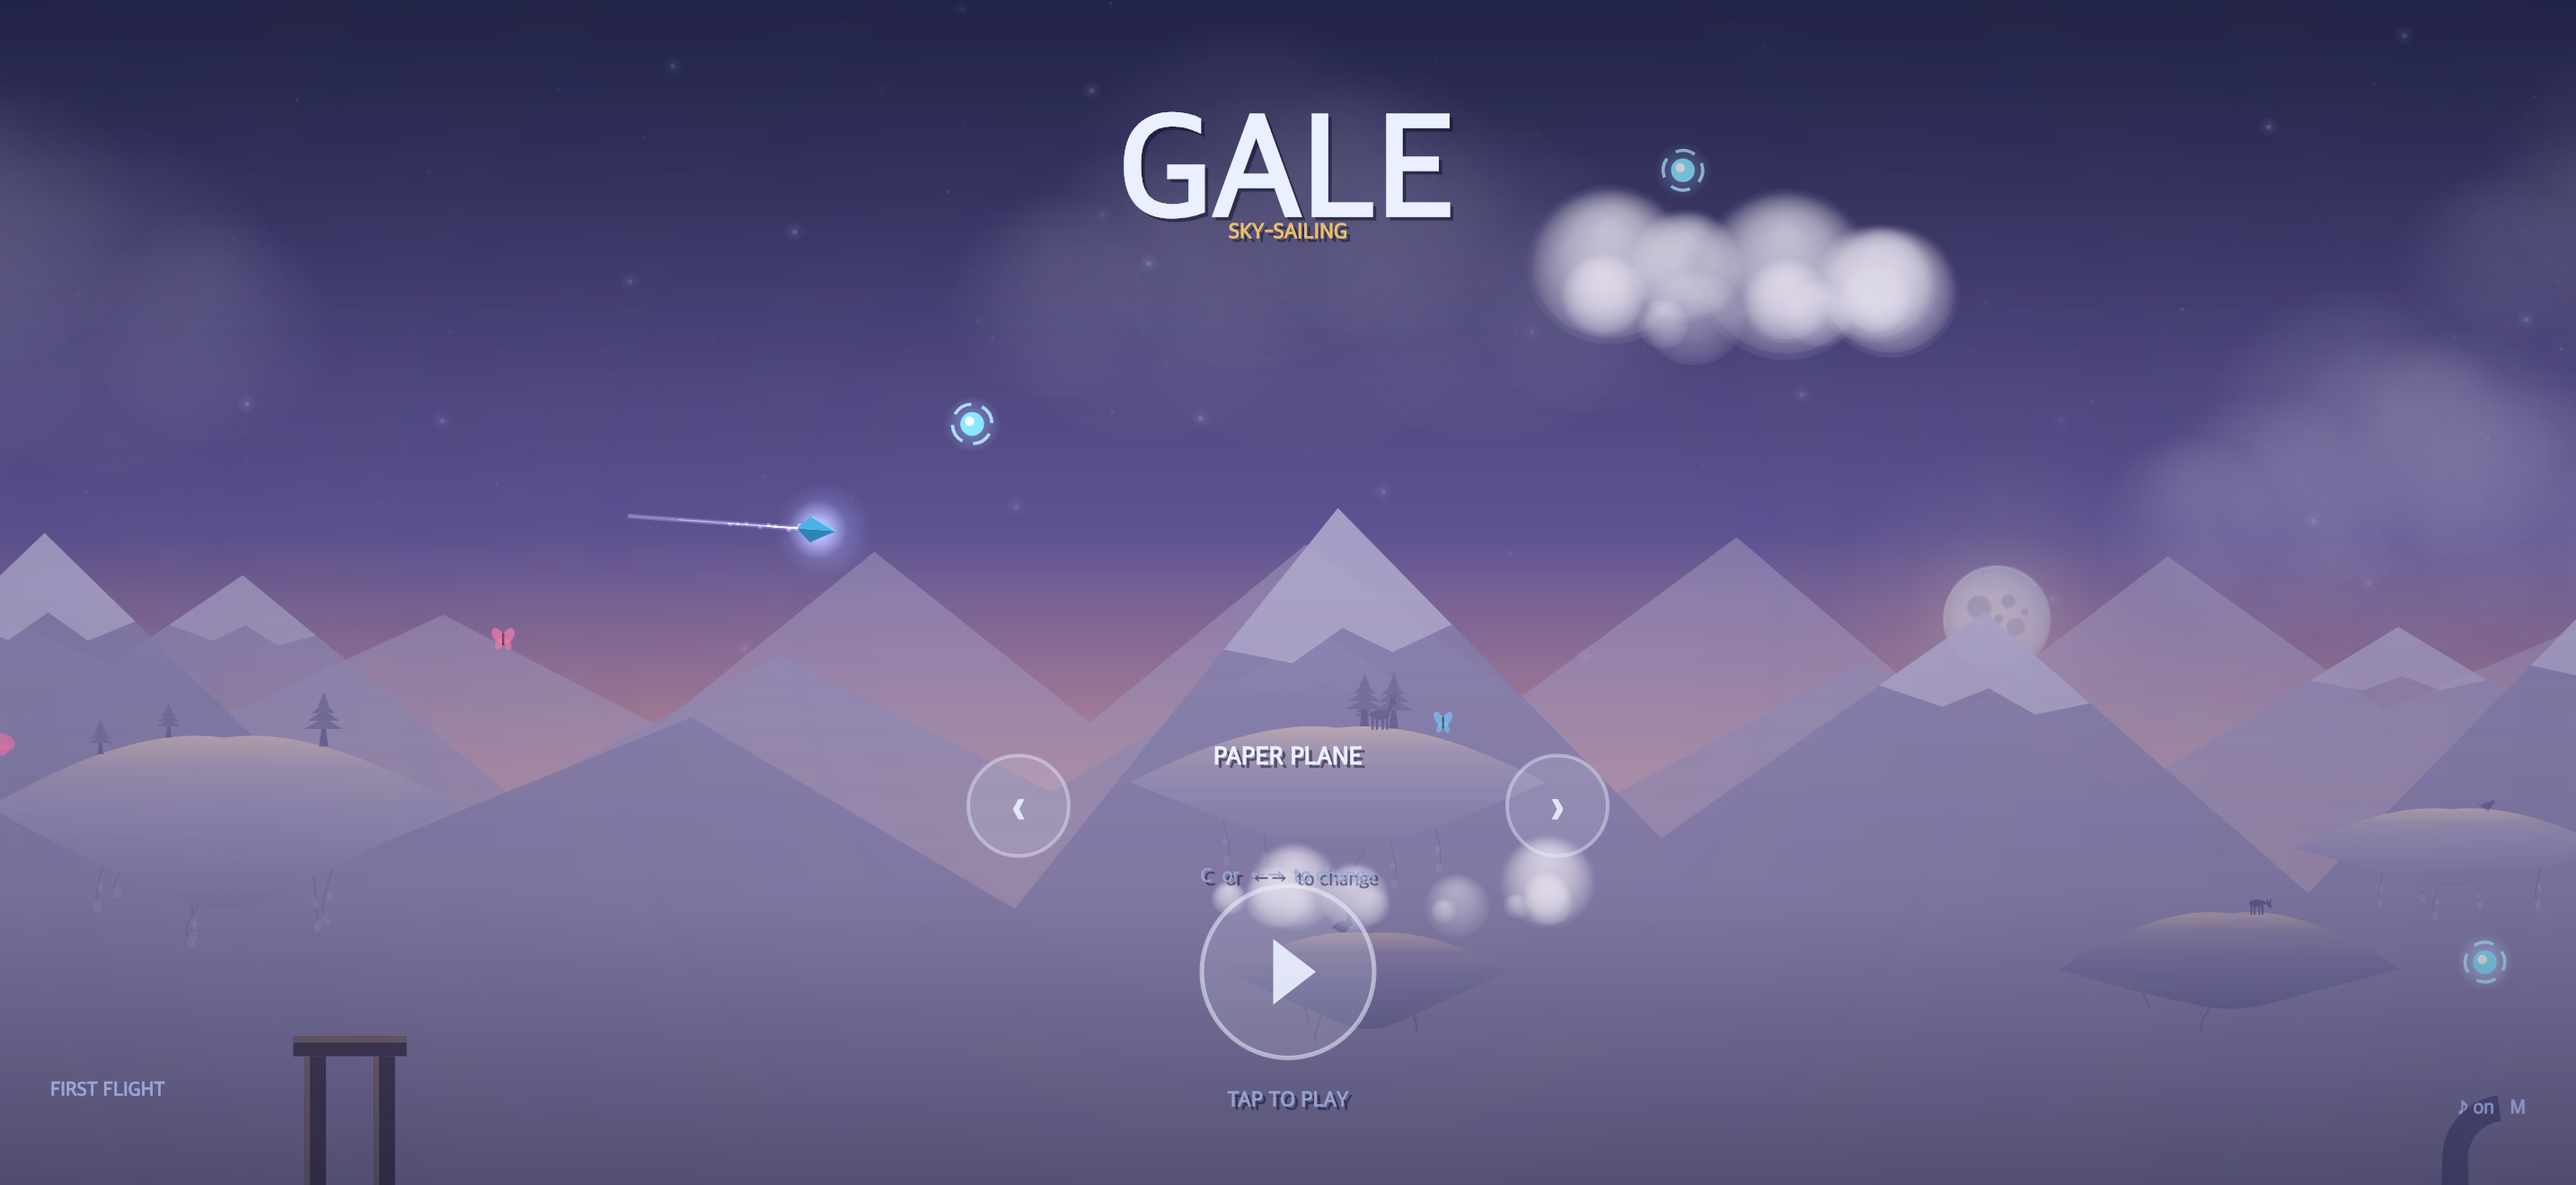
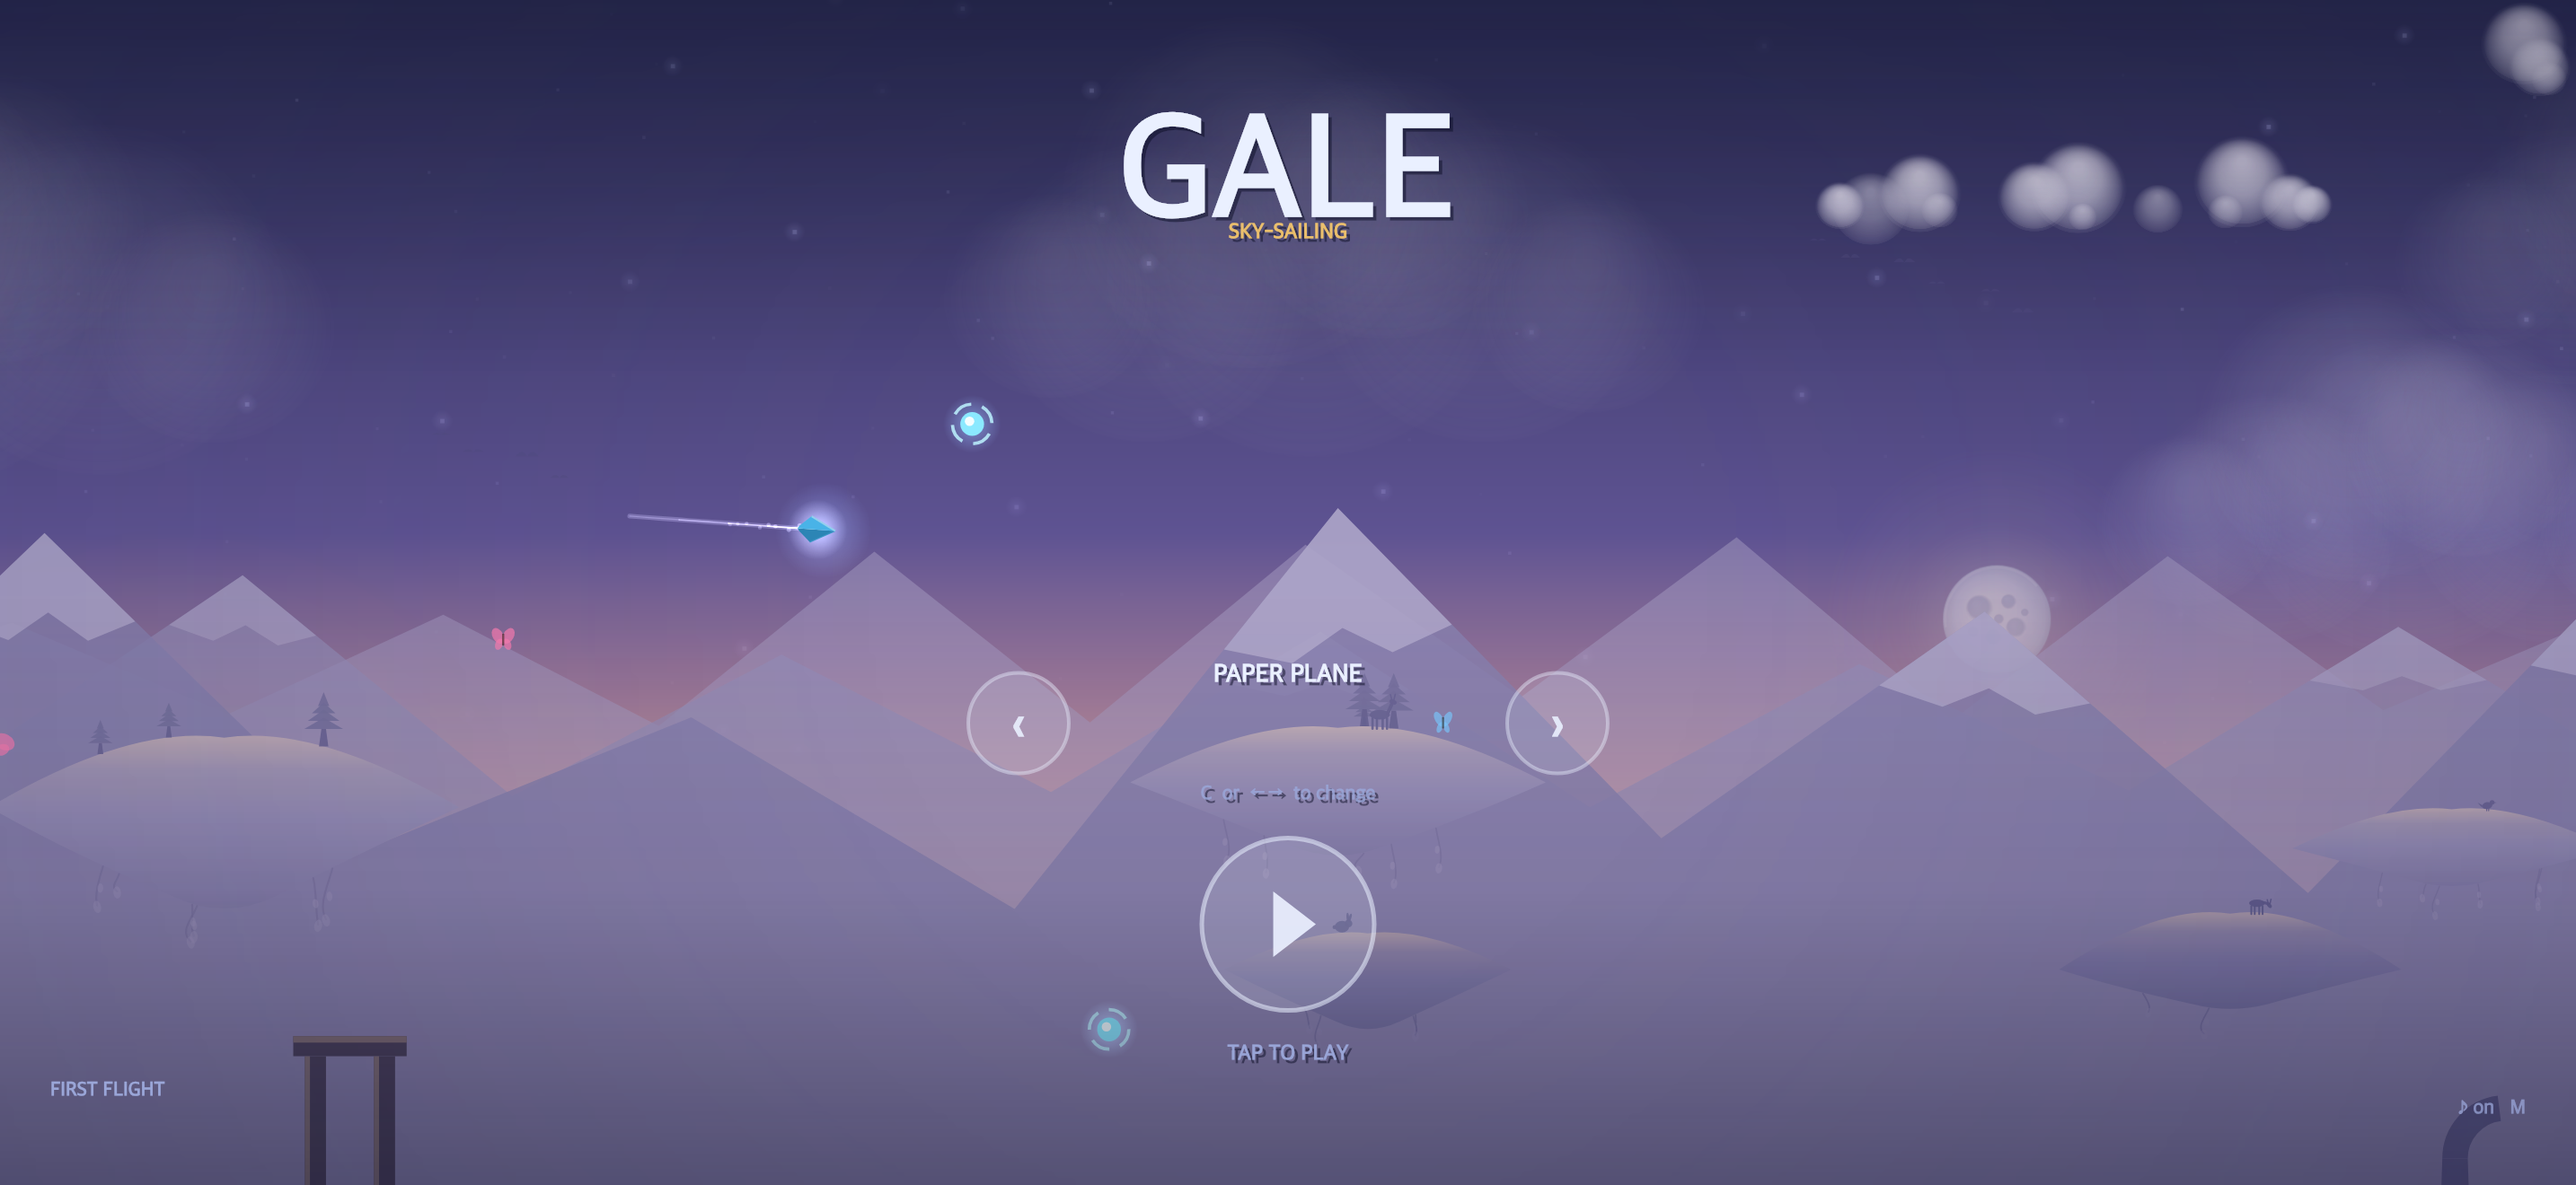
Gameplay fairness + attract-screen fixes
Every run start now guarantees a reachable first anchor and a rock-free
launch corridor (the attract glide used to strand players in sparse patches
or inside hazards — verified 180/180 fair restarts), the world generator
caps anchor droughts at ~850px with reachable rescue anchors, hazard rocks
got a fractured-stone look (chipped silhouettes, lit/shadow facets, cracks),
the grab-range ring was removed, and the menu/game-over layout is
bottom-anchored so TAP TO PLAY always fits the frame (keyboard hints hidden
on touch). Store screenshots regenerated.

diff --git a/src/entities/hazard.ts b/src/entities/hazard.ts
@@ -13,6 +13,9 @@ export class Hazard {
   destroyed = false;
   shatter = 0; // > 0 while playing the break effect, then it's culled
   private poly: { x: number; y: number }[] = [];
+  private litFace: { x: number; y: number }[] = [];
+  private shadowFace: { x: number; y: number }[] = [];
+  private cracks: { x: number; y: number }[][] = [];
   private spin: number;
 
   constructor(x: number, y: number, rx: number, ry: number, rng: Rng) {
@@ -22,11 +25,39 @@ export class Hazard {
     this.ry = ry;
     this.spin = rng.range(-0.2, 0.2);
 
-    const pts = rng.int(8, 11);
+    // Silhouette: angular jitter + occasional deep chips make the outline read
+    // as fractured stone instead of a smooth blob.
+    const pts = rng.int(10, 14);
     for (let i = 0; i < pts; i++) {
-      const a = (i / pts) * TAU;
-      const jag = rng.range(0.62, 1.05);
+      const a = ((i + rng.range(-0.3, 0.3)) / pts) * TAU;
+      let jag = rng.range(0.74, 1.06);
+      if (rng.chance(0.2)) jag *= rng.range(0.55, 0.72); // a chipped notch
       this.poly.push({ x: Math.cos(a) * rx * jag, y: Math.sin(a) * ry * jag });
+    }
+
+    // Shading facets, fanned from an off-centre pivot. Vertices run angle
+    // 0..TAU with +y DOWN, so the second half of the list is the top arc.
+    const half = Math.floor(pts / 2);
+    const pivot = { x: rx * rng.range(-0.24, 0.02), y: -ry * rng.range(0.02, 0.22) };
+    this.litFace.push(pivot);
+    for (let i = half; i < pts; i++) this.litFace.push(this.poly[i]);
+    this.litFace.push(this.poly[0]);
+
+    const pivot2 = { x: rx * rng.range(0.0, 0.2), y: ry * rng.range(0.15, 0.35) };
+    this.shadowFace.push(pivot2);
+    for (let i = 0; i <= half; i++) this.shadowFace.push(this.poly[i]);
+
+    // A few interior cracks running from the rim toward the middle.
+    const crackCount = rng.int(2, 3);
+    for (let c = 0; c < crackCount; c++) {
+      const v = this.poly[rng.int(0, pts - 1)];
+      const j1 = rng.range(-0.18, 0.18);
+      const j2 = rng.range(-0.14, 0.14);
+      this.cracks.push([
+        { x: v.x * 0.94, y: v.y * 0.94 },
+        { x: v.x * 0.55 + rx * j1, y: v.y * 0.55 + ry * j1 * 0.7 },
+        { x: v.x * 0.2 + rx * j2, y: v.y * 0.2 + ry * j2 * 0.7 },
+      ]);
     }
   }
 
@@ -70,21 +101,63 @@ export class Hazard {
     ctx.fillStyle = hexA(theme.hazard, 0.96);
     ctx.fill();
 
+    // Faceted shading: a sky-lit upper face and a deeper under-face give the
+    // slab a broken-stone read instead of a flat blob.
+    ctx.beginPath();
+    ctx.moveTo(this.litFace[0].x, this.litFace[0].y);
+    for (let i = 1; i < this.litFace.length; i++) {
+      ctx.lineTo(this.litFace[i].x, this.litFace[i].y);
+    }
+    ctx.closePath();
+    ctx.fillStyle = hexA(theme.hazardEdge, 0.32);
+    ctx.fill();
+
+    ctx.beginPath();
+    ctx.moveTo(this.shadowFace[0].x, this.shadowFace[0].y);
+    for (let i = 1; i < this.shadowFace.length; i++) {
+      ctx.lineTo(this.shadowFace[i].x, this.shadowFace[i].y);
+    }
+    ctx.closePath();
+    ctx.fillStyle = hexA("#05060f", 0.42);
+    ctx.fill();
+
+    // Cracks running in from the rim.
+    ctx.strokeStyle = hexA("#05060f", 0.6);
+    ctx.lineWidth = 1.3;
+    ctx.lineCap = "round";
+    ctx.lineJoin = "round";
+    for (const crack of this.cracks) {
+      ctx.beginPath();
+      ctx.moveTo(crack[0].x, crack[0].y);
+      for (let i = 1; i < crack.length; i++) ctx.lineTo(crack[i].x, crack[i].y);
+      ctx.stroke();
+    }
+
     // Crisp cool edge.
+    ctx.beginPath();
+    ctx.moveTo(this.poly[0].x, this.poly[0].y);
+    for (let i = 1; i < this.poly.length; i++) {
+      ctx.lineTo(this.poly[i].x, this.poly[i].y);
+    }
+    ctx.closePath();
     ctx.strokeStyle = hexA(theme.hazardEdge, 0.85);
     ctx.lineWidth = 1.5;
     ctx.stroke();
 
-    // Sun-side rim light: gives form and keeps rocks readable on a night sky.
+    // Sun-side rim light along the TOP arc (vertices run 0..TAU with +y down,
+    // so the second half of the list is the upper edge) — matches the lit
+    // facet and keeps rocks readable on a night sky.
     ctx.save();
     ctx.globalCompositeOperation = "lighter";
     ctx.strokeStyle = hexA(theme.skyGlow, 0.18 + theme.night * 0.35);
     ctx.lineWidth = 2;
     ctx.beginPath();
-    ctx.moveTo(this.poly[0].x, this.poly[0].y);
-    for (let i = 1; i < Math.ceil(this.poly.length / 2); i++) {
+    const half = Math.floor(this.poly.length / 2);
+    ctx.moveTo(this.poly[half].x, this.poly[half].y);
+    for (let i = half + 1; i < this.poly.length; i++) {
       ctx.lineTo(this.poly[i].x, this.poly[i].y);
     }
+    ctx.lineTo(this.poly[0].x, this.poly[0].y);
     ctx.stroke();
     ctx.restore();
 

diff --git a/src/systems/world.ts b/src/systems/world.ts
@@ -21,6 +21,8 @@ export class World {
   private rng = new Rng();
   private genX = 0;
   private startX = 0;
+  /** World-x of the most recent anchor — used to cap anchor droughts. */
+  private lastAnchorX = 0;
 
   get seaLevel() {
     return CONFIG.world.seaLevel;
@@ -44,7 +46,49 @@ export class World {
     // One guaranteed opening anchor — after that, everything is random.
     const first = new Anchor(startX + 260, startY - 180, "normal");
     this.anchors.push(first);
+    this.lastAnchorX = first.x;
     this.genX = startX + 280;
+  }
+
+  /**
+   * Guarantee a fair first grab: runs start wherever the attract glide
+   * happens to be, so make sure an anchor sits just ahead of (px, py) at a
+   * comfortable height. If the random world already provides one, do nothing.
+   */
+  ensureOpeningAnchor(px: number, py: number) {
+    // The acceptance window must stay inside the tether's practical reach for
+    // a player cruising forward from (px, py) — a "nearby" anchor outside it
+    // is a death sentence dressed up as fairness.
+    for (const a of this.anchors) {
+      if (a.x > px + 100 && a.x < px + 600 && a.y > py - 240 && a.y < py + 40) {
+        return;
+      }
+    }
+    const anchor = new Anchor(
+      px + this.rng.range(260, 380),
+      py - this.rng.range(110, 180),
+      "normal"
+    );
+    this.anchors.push(anchor);
+    this.lastAnchorX = Math.max(this.lastAnchorX, anchor.x);
+  }
+
+  /**
+   * Clear rocks around a run's starting position. The attract preview glides
+   * through the world without collision, so "tap to play" could otherwise
+   * drop the player inside (or a frame away from) a hazard — an instant,
+   * unavoidable death.
+   */
+  removeHazardsNear(px: number, py: number, radius: number) {
+    let w = 0;
+    for (const h of this.hazards) {
+      const dx = h.x - px;
+      const dy = h.y - py;
+      if (dx * dx + dy * dy > (radius + h.rx) * (radius + h.rx)) {
+        this.hazards[w++] = h;
+      }
+    }
+    this.hazards.length = w;
   }
 
   private difficulty(): number {
@@ -67,17 +111,27 @@ export class World {
     const segEnd = this.genX + segW;
     this.genX = segEnd;
 
-    // --- Anchors: 0–2 per segment, scattered. Empty segments = real gaps. ---
+    // --- Anchors: 0–2 per segment, scattered. Empty segments = real gaps —
+    // but capped: a long anchor drought is a guaranteed unavoidable death.
+    // Checked against the segment END so the rescue lands before the gap
+    // outgrows a good slingshot, and the rescue spawns EARLY in the segment
+    // at a mid-altitude band the player can actually reach.
+    const drought = segEnd - this.lastAnchorX > 850;
     const emptyChance = lerp(0.08, 0.28, diff);
     let anchorCount = 0;
-    if (!rng.chance(emptyChance)) {
+    if (drought || !rng.chance(emptyChance)) {
       anchorCount = rng.int(1, diff > 0.45 ? 2 : 1);
     }
 
     const segAnchors: Anchor[] = [];
     for (let i = 0; i < anchorCount; i++) {
-      const ax = rng.range(segStart + 60, segEnd - 60);
-      const ay = rng.range(top, bottom);
+      const rescue = drought && i === 0;
+      const ax = rescue
+        ? rng.range(segStart + 40, Math.min(segEnd - 60, segStart + 260))
+        : rng.range(segStart + 60, segEnd - 60);
+      const ay = rescue
+        ? rng.range(-650, Math.min(bottom, 350))
+        : rng.range(top, bottom);
       const moving = rng.chance(lerp(0.06, 0.38, diff));
       const anchor = moving
         ? new Anchor(ax, ay, "moving", {
@@ -88,6 +142,7 @@ export class World {
         : new Anchor(ax, ay, "normal");
       this.anchors.push(anchor);
       segAnchors.push(anchor);
+      if (ax > this.lastAnchorX) this.lastAnchorX = ax;
     }
 
     // Collectibles: scattered in the segment or clustered near an anchor.

diff --git a/src/render/hud.ts b/src/render/hud.ts
@@ -7,6 +7,11 @@ import type { CharacterId } from "../characters/registry";
 
 const PALETTE = theme; // HUD reads the live theme for cohesive colour grading
 
+// Touch devices don't have a keyboard — skip keyboard-only hints. Guarded for
+// the headless test harnesses, which don't define matchMedia.
+const COARSE_POINTER =
+  typeof matchMedia === "function" && matchMedia("(pointer: coarse)").matches;
+
 // Assigning ctx.font triggers a CSS shorthand parse + font-cache lookup in
 // WebKit, so compose each string once. HUD sizes are a small fixed set;
 // animated popup sizes are quantized to 0.5px so keys repeat.
@@ -118,7 +123,11 @@ export class Hud {
 
   playButton(cam: Camera): { x: number; y: number; r: number } {
     const r = clamp(cam.w * 0.055, 36, 48);
-    return { x: cam.w / 2, y: cam.h * 0.82, r };
+    // Bottom-anchored cap: the button and its TAP TO PLAY label must always
+    // fit inside the frame with margin, even on short or clipped viewports
+    // (proportional-only placement used to push the label off screen).
+    const y = Math.min(cam.h * 0.78, cam.h - cam.insets.bottom - r - 72);
+    return { x: cam.w / 2, y, r };
   }
 
   characterCycleButton(
@@ -126,8 +135,12 @@ export class Hud {
     dir: -1 | 1
   ): { x: number; y: number; r: number } {
     const r = clamp(cam.w * 0.034, 22, 28);
+    const play = this.playButton(cam);
     const cx = cam.w / 2 + dir * clamp(cam.w * 0.19, 110, 150);
-    return { x: cx, y: cam.h * 0.68, r };
+    // Ride above the play button, but never so high that the picker collides
+    // with the game-over stats block on short screens.
+    const y = Math.max(play.y - play.r - 64, cam.h * 0.56);
+    return { x: cx, y, r };
   }
 
   // Screen-space HUD during a run.
@@ -437,8 +450,10 @@ export class Hud {
       );
     }
 
-    // Character picker — above the play button.
-    const pickY = h * 0.68;
+    // Character picker — placement derives from the play button so the two
+    // never drift apart (characterCycleButton is also the hit-test).
+    const play = this.playButton(cam);
+    const pickY = this.characterCycleButton(cam, 1).y;
     for (const dir of [-1, 1] as const) {
       const b = this.characterCycleButton(cam, dir);
       ctx.fillStyle = hexA(PALETTE.text, 0.14);
@@ -465,19 +480,22 @@ export class Hud {
       PALETTE.text,
       true
     );
-    this.text(
-      ctx,
-      "C  or  ← →  to change",
-      w / 2,
-      pickY + 34,
-      11,
-      "600",
-      hexA(PALETTE.textDim, 0.85),
-      true
-    );
+    // Keyboard hint: pointless on touch screens, and hidden whenever the
+    // layout is too cramped for it to clear the play button.
+    if (!COARSE_POINTER && pickY + 50 < play.y - play.r) {
+      this.text(
+        ctx,
+        "C  or  ← →  to change",
+        w / 2,
+        pickY + 34,
+        11,
+        "600",
+        hexA(PALETTE.textDim, 0.85),
+        true
+      );
+    }
 
     // Play button — bottom center circle with triangle.
-    const play = this.playButton(cam);
     ctx.fillStyle = hexA(PALETTE.text, 0.16 * pulse);
     ctx.beginPath();
     ctx.arc(play.x, play.y, play.r, 0, Math.PI * 2);

diff --git a/src/entities/player.ts b/src/entities/player.ts
@@ -8,9 +8,6 @@ import { angleDelta, clamp, rad, TAU } from "../core/math";
 import { makeScratch, Scratch } from "../render/rcache";
 import { Anchor, hexA } from "./anchor";
 
-// Dash pattern for the tether-range ring (hoisted — setLineDash copies it).
-const RANGE_DASH = [7, 12];
-
 export type PlayerState = "glide" | "swing" | "dash" | "skid";
 
 export interface ReleaseInfo {
@@ -420,7 +417,6 @@ export class Player {
   // --- Rendering -----------------------------------------------------------
 
   draw(ctx: CanvasRenderingContext2D, time: number, menuPreview = false) {
-    if (!menuPreview && this.state === "glide") this.drawGrabRange(ctx, time);
     if (this.characterId === "plane") {
       this.drawMotionTrail(ctx, time);
     } else if (this.characterId === "monkey") {
@@ -430,21 +426,6 @@ export class Player {
     }
     if (this.state === "swing" && this.anchor) this.drawTether(ctx, time);
     this.drawCharacter(ctx, time, menuPreview);
-  }
-
-  // Faint dashed circle showing the tether's reach while gliding, so grabs
-  // are always deliberate — you can see exactly what the hook can reach.
-  private drawGrabRange(ctx: CanvasRenderingContext2D, time: number) {
-    ctx.save();
-    ctx.strokeStyle = theme.tether;
-    ctx.globalAlpha = 0.14;
-    ctx.lineWidth = 1.6;
-    ctx.setLineDash(RANGE_DASH);
-    ctx.lineDashOffset = -time * 14; // slow drift keeps it readable, not static
-    ctx.beginPath();
-    ctx.arc(this.x, this.y, CONFIG.tether.grabRange, 0, TAU);
-    ctx.stroke();
-    ctx.restore();
   }
 
   // Bright thin line trail with a soft glow at the plane and light taper.

diff --git a/src/core/game.ts b/src/core/game.ts
@@ -138,6 +138,11 @@ export class Game {
       const glideTime = this.time - this.attractGlideStartTime;
       this.player.animateMenuGlide(0, glideTime, this.attractGlideX);
       this.startX = this.player.x;
+      // The world here is whatever the attract glide flew into — guarantee a
+      // reachable first anchor and a rock-free launch corridor so the run
+      // can't end before it begins.
+      this.world.ensureOpeningAnchor(this.player.x, this.player.y);
+      this.world.removeHazardsNear(this.player.x + 180, this.player.y, 320);
       this.player.beginRun();
       this.resetRunStats();
       this.state = "playing";

diff --git a/src/main.ts b/src/main.ts
@@ -59,9 +59,11 @@ function resize() {
   if (canvas.width !== bw || canvas.height !== bh) {
     canvas.width = bw;
     canvas.height = bh;
-    canvas.style.width = w + "px";
-    canvas.style.height = h + "px";
   }
+  // Outside the guard: a window resize and a renderScale step can cancel out
+  // in device pixels while the CSS size still needs to change.
+  canvas.style.width = w + "px";
+  canvas.style.height = h + "px";
   game.resize(w, h, dpr, readInsets());
 }
 
